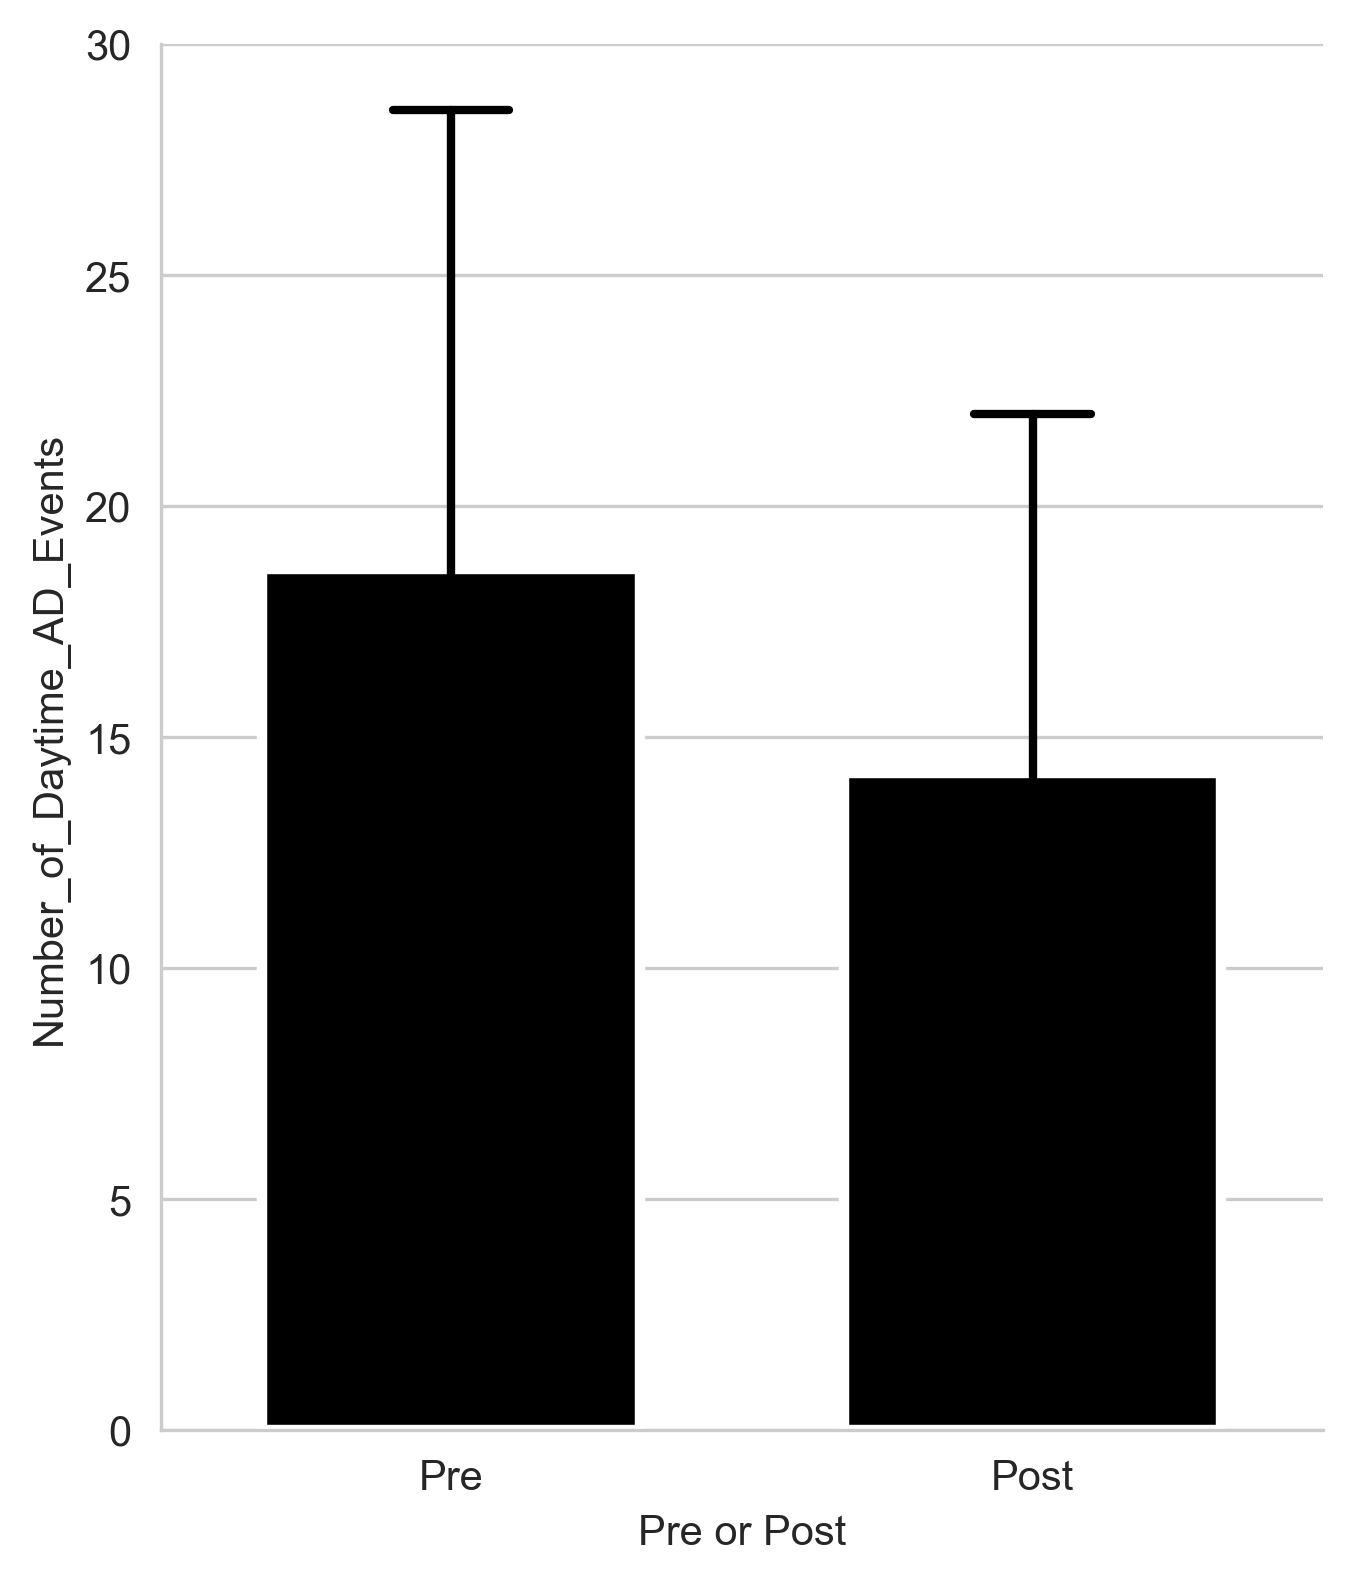
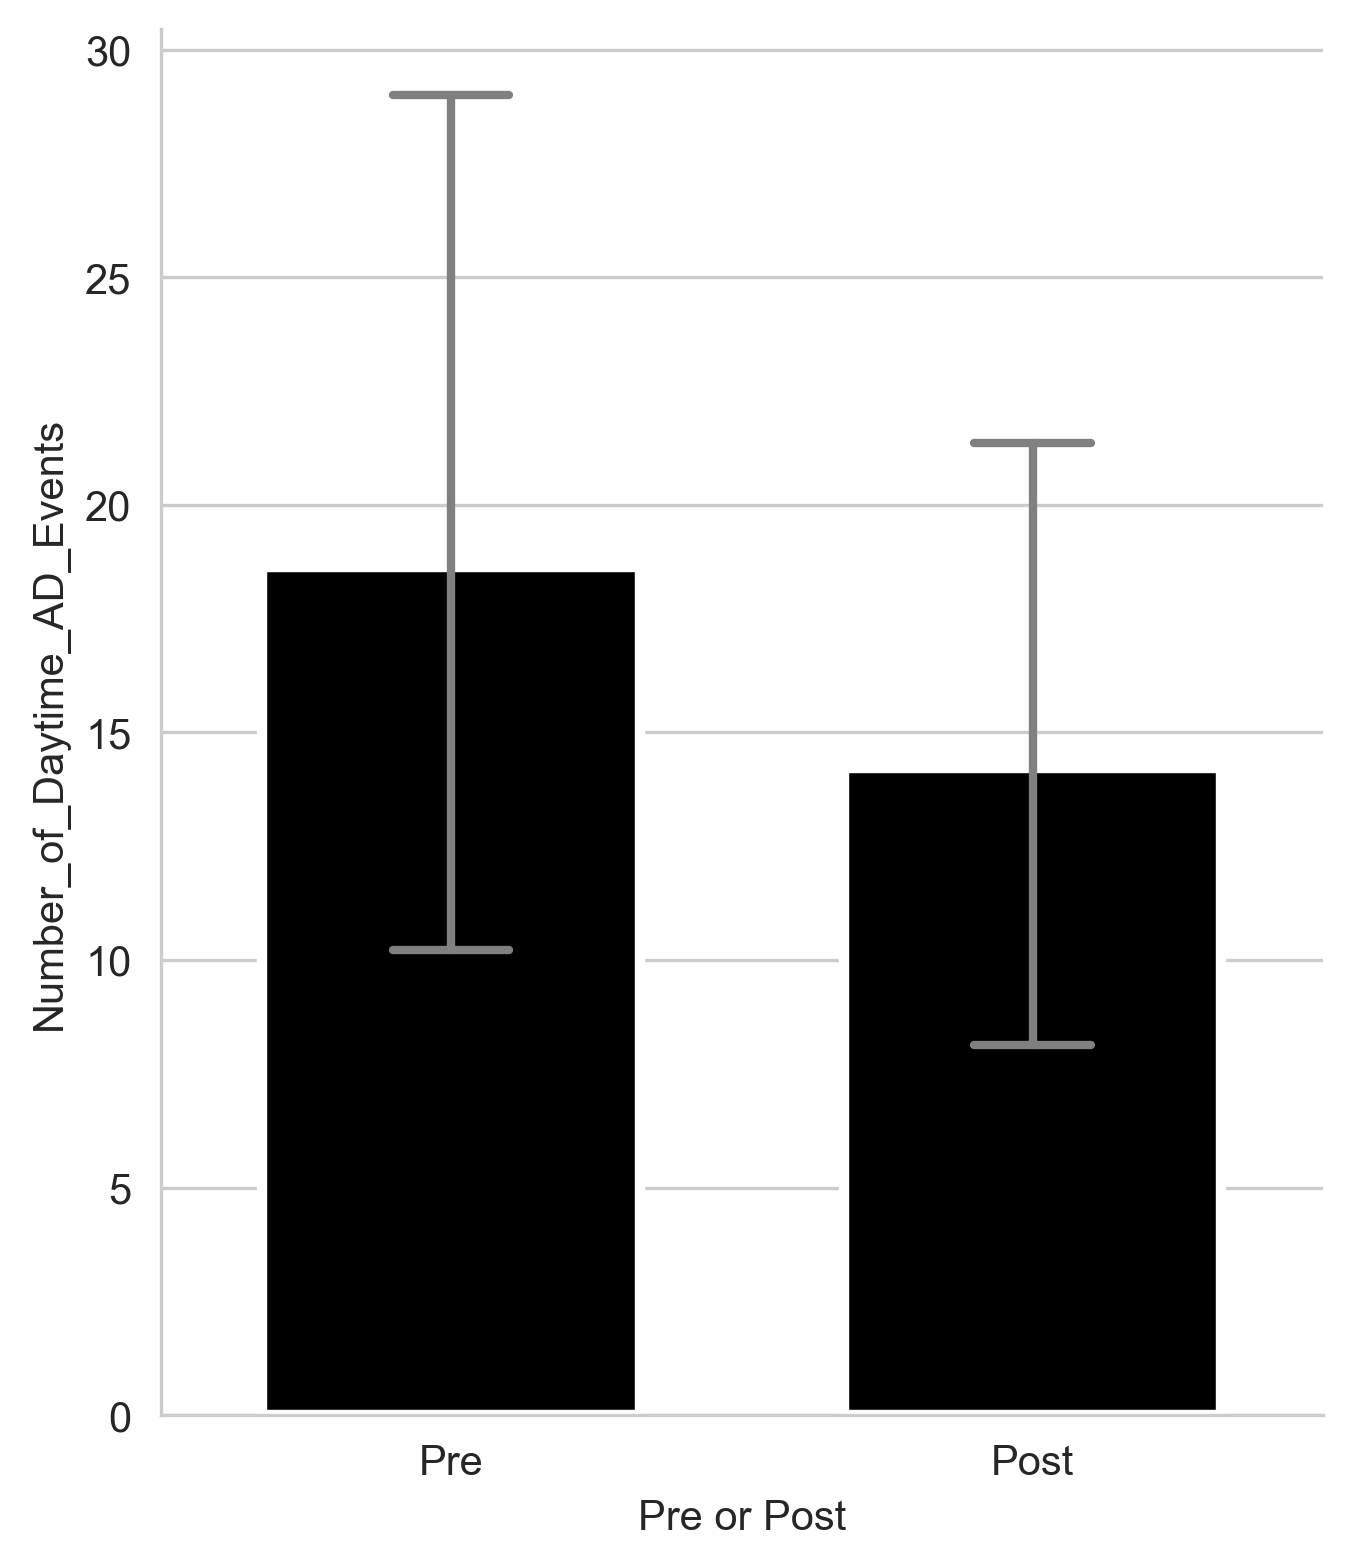
Changed error bar colors and added Shapiro-Wilk test values to the bar graph web page

diff --git a/krassioukovlab/24hbp_bargraphs/index.html b/krassioukovlab/24hbp_bargraphs/index.html
@@ -54,15 +54,17 @@
   <p>Created by Lokavya Jain on May 25th, 2025</p>
   <p>Instructions:</p>
   <p>   - Please wait a couple of minutes for all graphs to load.</p>
-  <p>   - Each metric will have two interactive graphs associated with it.</p>
+  <p>   - Each metric will have two graphs associated with it.</p>
   <p>   - Hover over points on the first graph to display participant info.</p>
   <p>   - Click and drag on the graph to zoom in.</p>
   <p>   - p-values were calculated with paired t-tests unless otherwise specified.</p>
   <p>   - Interactive histograms for this data can be found at this URL: lokavyajain.github.io/krassioukovlab/24hbp_histograms</p>
   <p></p>
-<div class="graph-section">
+
+  <div class="graph-section">
   <h2>Mean_SBP</h2>
   <p>P-Value: 0.465279</p>
+  <p>Shapiro-Wilk Test with Pre and Post Combined: 0.4982325030</p>
   <div class="graph-pair">
       <iframe src="Mean_SBP_plotly.html"></iframe>
       <img src="Mean_SBP_seaborn.png" />
@@ -72,6 +74,7 @@
   <div class="graph-section">
   <h2>Mean_DBP</h2>
   <p>P-Value: 0.746767</p>
+  <p>Shapiro-Wilk Test with Pre and Post Combined: 0.7896760880</p>
   <div class="graph-pair">
       <iframe src="Mean_DBP_plotly.html"></iframe>
       <img src="Mean_DBP_seaborn.png" />
@@ -81,6 +84,7 @@
   <div class="graph-section">
   <h2>Mean_HR</h2>
   <p>P-Value: 0.517412</p>
+  <p>Shapiro-Wilk Test with Pre and Post Combined: 0.6233283790</p>
   <div class="graph-pair">
       <iframe src="Mean_HR_plotly.html"></iframe>
       <img src="Mean_HR_seaborn.png" />
@@ -90,6 +94,7 @@
   <div class="graph-section">
   <h2>Number_of_Daytime_AD_Events</h2>
   <p>P-Value: 0.484144</p>
+  <p>Shapiro-Wilk Test with Pre and Post Combined: 0.0003062950</p>
   <div class="graph-pair">
       <iframe src="Number_of_Daytime_AD_Events_plotly.html"></iframe>
       <img src="Number_of_Daytime_AD_Events_seaborn.png" />
@@ -99,6 +104,7 @@
   <div class="graph-section">
   <h2>Number_of_Nighttime_AD_Events</h2>
   <p>P-Value: 0.389871</p>
+  <p>Shapiro-Wilk Test with Pre and Post Combined: 0.0000067140</p>
   <div class="graph-pair">
       <iframe src="Number_of_Nighttime_AD_Events_plotly.html"></iframe>
       <img src="Number_of_Nighttime_AD_Events_seaborn.png" />
@@ -108,6 +114,7 @@
   <div class="graph-section">
   <h2>Number_of_Daytime_OH_Events</h2>
   <p>P-Value: 0.779711</p>
+  <p>Shapiro-Wilk Test with Pre and Post Combined: 0.0000671960</p>
   <div class="graph-pair">
       <iframe src="Number_of_Daytime_OH_Events_plotly.html"></iframe>
       <img src="Number_of_Daytime_OH_Events_seaborn.png" />
@@ -117,6 +124,7 @@
   <div class="graph-section">
   <h2>Number_of_Nighttime_OH_Events</h2>
   <p>P-Value: 0.549271</p>
+  <p>Shapiro-Wilk Test with Pre and Post Combined: 0.0000083010</p>
   <div class="graph-pair">
       <iframe src="Number_of_Nighttime_OH_Events_plotly.html"></iframe>
       <img src="Number_of_Nighttime_OH_Events_seaborn.png" />
@@ -126,6 +134,7 @@
   <div class="graph-section">
   <h2>Number_of__Total_AD_and_Daytime_OH_Events</h2>
   <p>P-Value: 0.635972</p>
+  <p>Shapiro-Wilk Test with Pre and Post Combined: 0.0078062000</p>
   <div class="graph-pair">
       <iframe src="Number_of__Total_AD_and_Daytime_OH_Events_plotly.html"></iframe>
       <img src="Number_of__Total_AD_and_Daytime_OH_Events_seaborn.png" />
@@ -135,6 +144,7 @@
   <div class="graph-section">
   <h2>24Hr_SBP_CV</h2>
   <p>P-Value: 0.136954</p>
+  <p>Shapiro-Wilk Test with Pre and Post Combined: 0.8515959130</p>
   <div class="graph-pair">
       <iframe src="24Hr_SBP_CV_plotly.html"></iframe>
       <img src="24Hr_SBP_CV_seaborn.png" />
@@ -144,6 +154,7 @@
   <div class="graph-section">
   <h2>Avg_SBP_Increase_During_Nighttime_AD</h2>
   <p>P-Value: 0.652621 (Not Paired Due to Missing Values)</p>
+  <p>Shapiro-Wilk Test with Pre and Post Combined: 0.7089260460</p>
   <div class="graph-pair">
       <iframe src="Avg_SBP_Increase_During_Nighttime_AD_plotly.html"></iframe>
       <img src="Avg_SBP_Increase_During_Nighttime_AD_seaborn.png" />
@@ -153,6 +164,7 @@
   <div class="graph-section">
   <h2>Avg_SBP_Increase_During_Nighttime_AD.1</h2>
   <p>P-Value: 0.391743</p>
+  <p>Shapiro-Wilk Test with Pre and Post Combined: 0.0729246400</p>
   <div class="graph-pair">
       <iframe src="Avg_SBP_Increase_During_Nighttime_AD.1_plotly.html"></iframe>
       <img src="Avg_SBP_Increase_During_Nighttime_AD.1_seaborn.png" />
@@ -162,6 +174,7 @@
   <div class="graph-section">
   <h2>Avg_SBP_Drop_During_Daytime_OH</h2>
   <p>P-Value: 0.7937 (Not Paired Due to Missing Values)</p>
+  <p>Shapiro-Wilk Test with Pre and Post Combined: 0.0003951820</p>
   <div class="graph-pair">
       <iframe src="Avg_SBP_Drop_During_Daytime_OH_plotly.html"></iframe>
       <img src="Avg_SBP_Drop_During_Daytime_OH_seaborn.png" />
@@ -171,6 +184,7 @@
   <div class="graph-section">
   <h2>Avg_DBP_Drop_During_Daytime_OH</h2>
   <p>P-Value: 0.338497 (Not Paired Due to Missing Values)</p>
+  <p>Shapiro-Wilk Test with Pre and Post Combined: 0.0000006990</p>
   <div class="graph-pair">
       <iframe src="Avg_DBP_Drop_During_Daytime_OH_plotly.html"></iframe>
       <img src="Avg_DBP_Drop_During_Daytime_OH_seaborn.png" />
@@ -180,6 +194,7 @@
   <div class="graph-section">
   <h2>Number_of_Recordings_With_SBP_>=_150mmHg</h2>
   <p>P-Value: 0.569958</p>
+  <p>Shapiro-Wilk Test with Pre and Post Combined: 0.0000055650</p>
   <div class="graph-pair">
       <iframe src="Number_of_Recordings_With_SBP_>=_150mmHg_plotly.html"></iframe>
       <img src="Number_of_Recordings_With_SBP_>=_150mmHg_seaborn.png" />
@@ -189,6 +204,7 @@
   <div class="graph-section">
   <h2>Number_of_Recordings_With_SBP_>=_180mmHg</h2>
   <p>P-Value: 0.845721 (Not Paired Due to Missing Values)</p>
+  <p>Shapiro-Wilk Test with Pre and Post Combined: 0.0000005550</p>
   <div class="graph-pair">
       <iframe src="Number_of_Recordings_With_SBP_>=_180mmHg_plotly.html"></iframe>
       <img src="Number_of_Recordings_With_SBP_>=_180mmHg_seaborn.png" />
@@ -198,6 +214,7 @@
   <div class="graph-section">
   <h2>SBP_Nocturnal_Dip_(percentage)</h2>
   <p>P-Value: 0.135376</p>
+  <p>Shapiro-Wilk Test with Pre and Post Combined: 0.3207635380</p>
   <div class="graph-pair">
       <iframe src="SBP_Nocturnal_Dip_(percentage)_plotly.html"></iframe>
       <img src="SBP_Nocturnal_Dip_(percentage)_seaborn.png" />
@@ -207,6 +224,7 @@
   <div class="graph-section">
   <h2>DBP_Nocturnal_Dip_(percentage)</h2>
   <p>P-Value: 0.285029</p>
+  <p>Shapiro-Wilk Test with Pre and Post Combined: 0.0167860830</p>
   <div class="graph-pair">
       <iframe src="DBP_Nocturnal_Dip_(percentage)_plotly.html"></iframe>
       <img src="DBP_Nocturnal_Dip_(percentage)_seaborn.png" />
@@ -216,4 +234,5 @@
 
   </div>
 
-  
+
+
